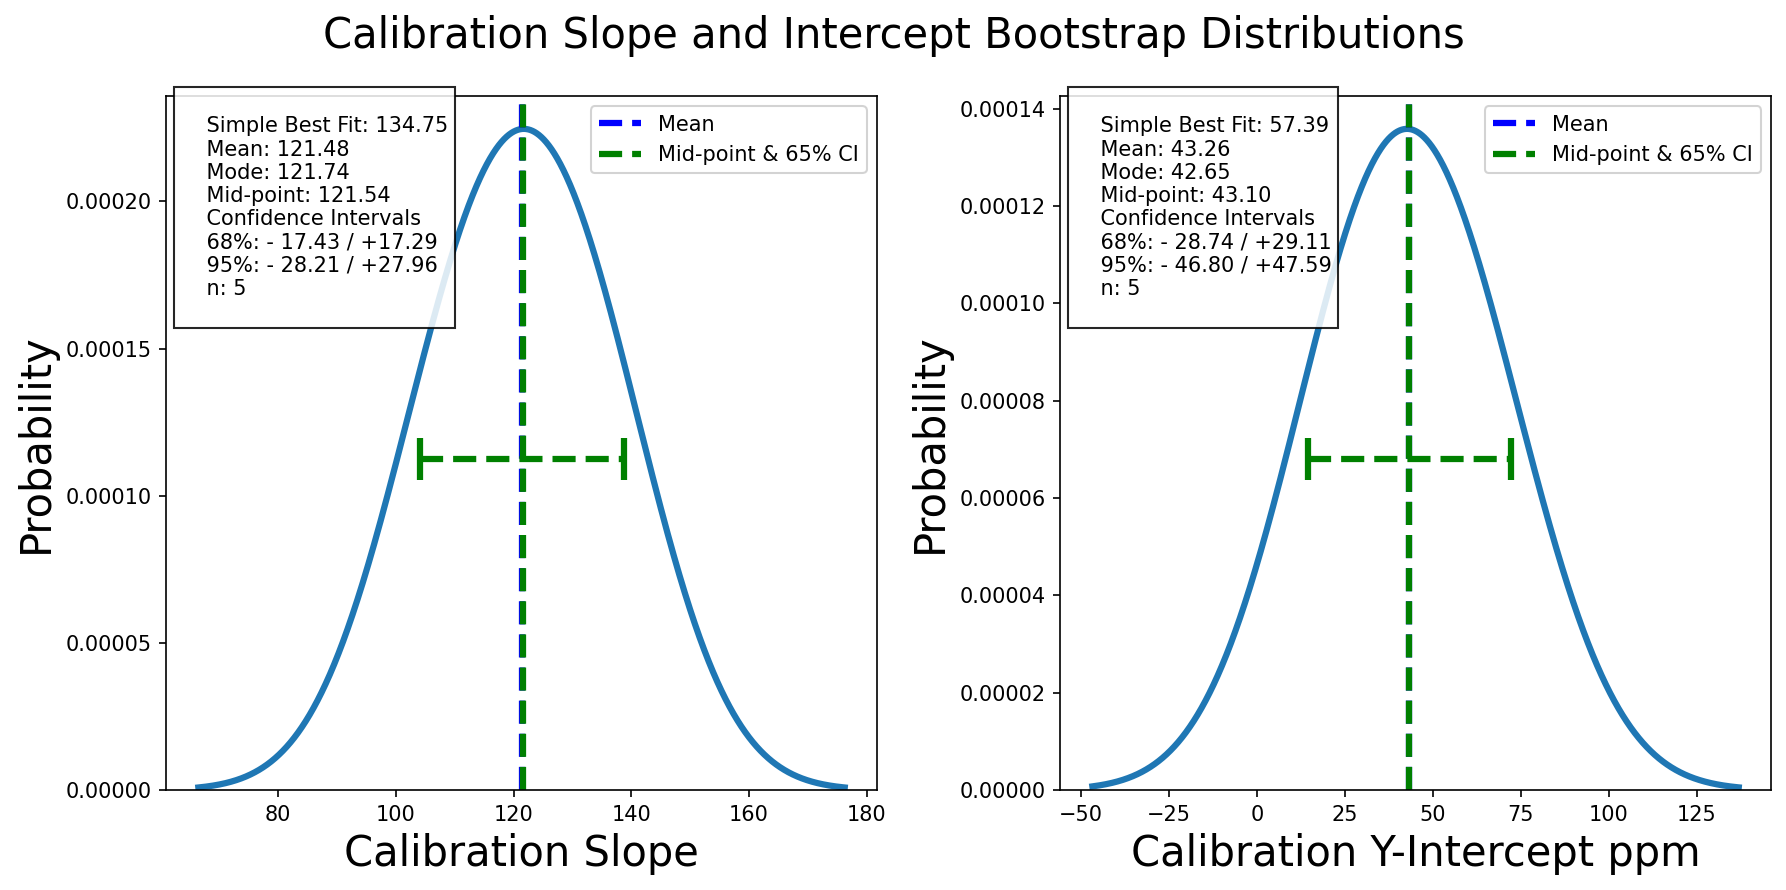
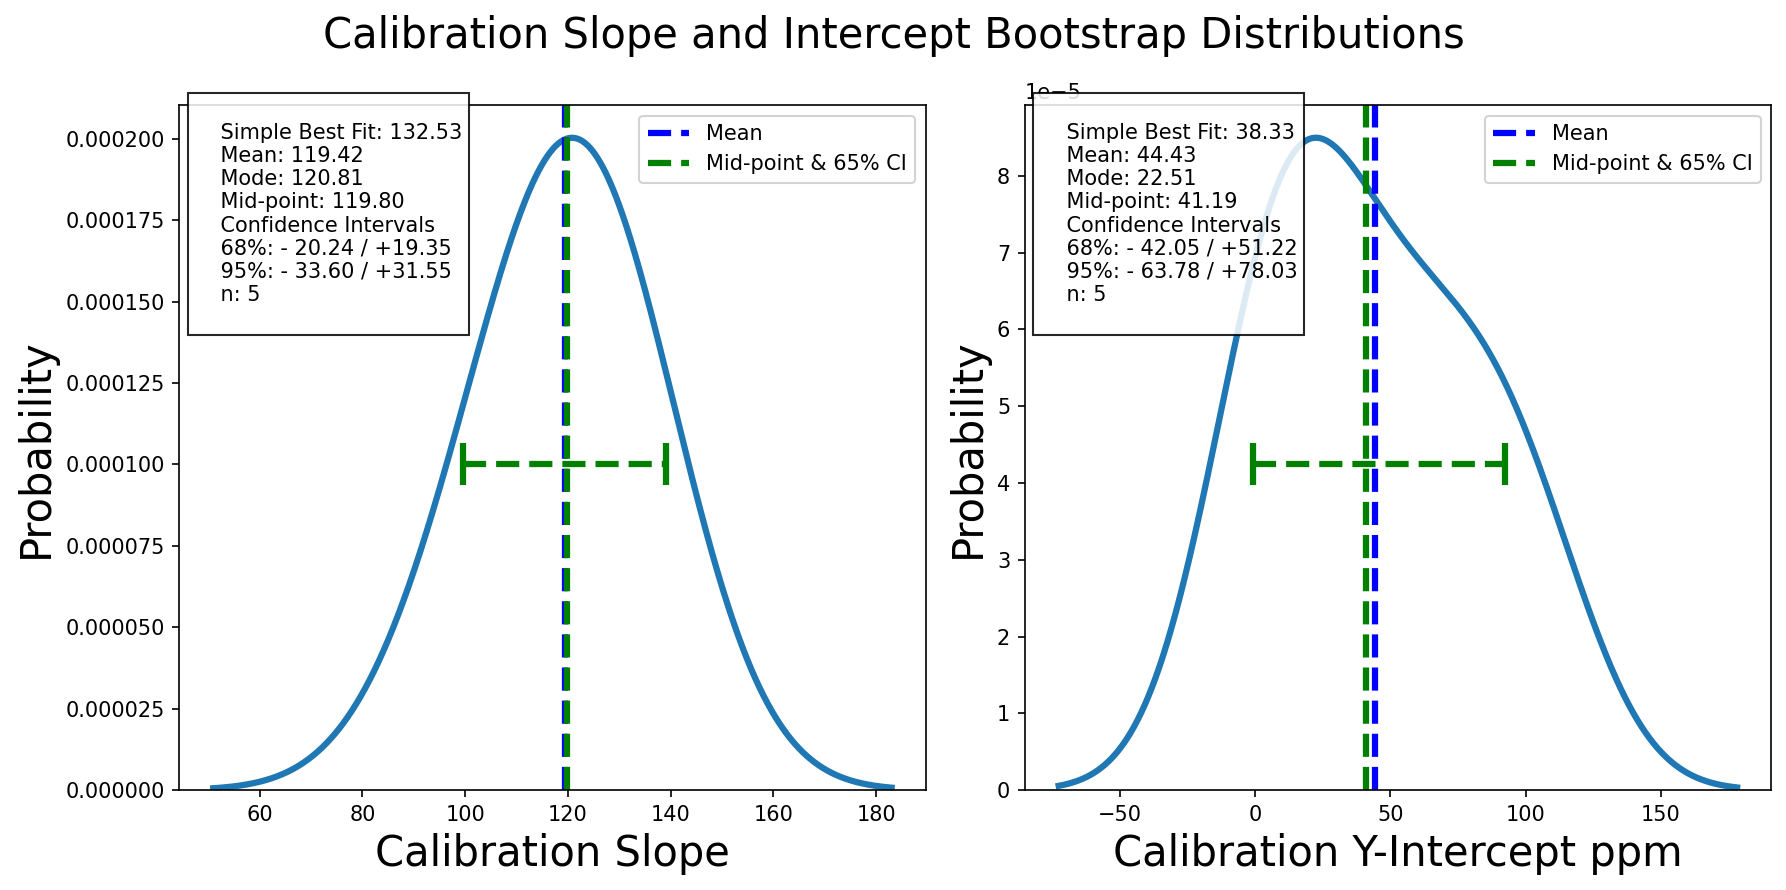
updates to smoothness in curve plots.

diff --git a/examples/example.py b/examples/example.py
@@ -20,6 +20,7 @@ from odr_bootstrap import (  # noqa: E402
 )
 
 OUTPUT_DIR = Path(__file__).resolve().parent
+REGRESSION_LINE_INTERVAL = 0.25
 
 
 def main() -> None:
@@ -68,11 +69,11 @@ def main() -> None:
         InitialGuess=[100, 10],
         Confidence_Bound=0.95,
         LineMax=11,
-        LineInterval=0.5,
+        LineInterval=REGRESSION_LINE_INTERVAL,
     )
 
-    conf_68 = Eval_Conf(all_params, Confidence_Bound=0.68, LineMax=11, LineInt=0.5)
-    conf_95 = Eval_Conf(all_params, Confidence_Bound=0.95, LineMax=11, LineInt=0.5)
+    conf_68 = Eval_Conf(all_params, Confidence_Bound=0.68, LineMax=11, LineInt=REGRESSION_LINE_INTERVAL)
+    conf_95 = Eval_Conf(all_params, Confidence_Bound=0.95, LineMax=11, LineInt=REGRESSION_LINE_INTERVAL)
 
     outlier_confidence_data, outlier_best_fit, outlier_points, outlier_params, _ = ODR_Bootstrap(
         x=x_outlier,
@@ -84,10 +85,10 @@ def main() -> None:
         InitialGuess=[100, 10],
         Confidence_Bound=0.95,
         LineMax=11,
-        LineInterval=0.5,
+        LineInterval=REGRESSION_LINE_INTERVAL,
     )
-    outlier_conf_68 = Eval_Conf(outlier_params, Confidence_Bound=0.68, LineMax=11, LineInt=0.5)
-    outlier_conf_95 = Eval_Conf(outlier_params, Confidence_Bound=0.95, LineMax=11, LineInt=0.5)
+    outlier_conf_68 = Eval_Conf(outlier_params, Confidence_Bound=0.68, LineMax=11, LineInt=REGRESSION_LINE_INTERVAL)
+    outlier_conf_95 = Eval_Conf(outlier_params, Confidence_Bound=0.95, LineMax=11, LineInt=REGRESSION_LINE_INTERVAL)
 
     print(f"   Best fit slope: {best_fit_params[0]:.2f}")
     print(f"   Best fit intercept: {best_fit_params[1]:.2f}")

diff --git a/docs/source/index.rst b/docs/source/index.rst
@@ -34,18 +34,6 @@ SIMS (Secondary Ion Mass Spectrometry) calibration analysis. It is broadly appli
 types of analytical calibrations and uses of linear regressions. Bootstrapping ensures that the
 fits are not overly skewed by outliers.
 
-Features
-========
-
-✅ NumPy-style documentation for all functions  
-✅ Type hints for complete IDE support  
-✅ 22 comprehensive unit tests (100% pass rate, 97.6% coverage)  
-✅ Runnable example workflow with synthetic data  
-✅ Compatible with scipy 1.15+ (deprecated API updates handled)  
-✅ Zero-intercept fits with proper parameter handling  
-✅ Publication-ready calibration plots  
-✅ Continuous integration & automated testing  
-
 Getting Started
 ===============
 
